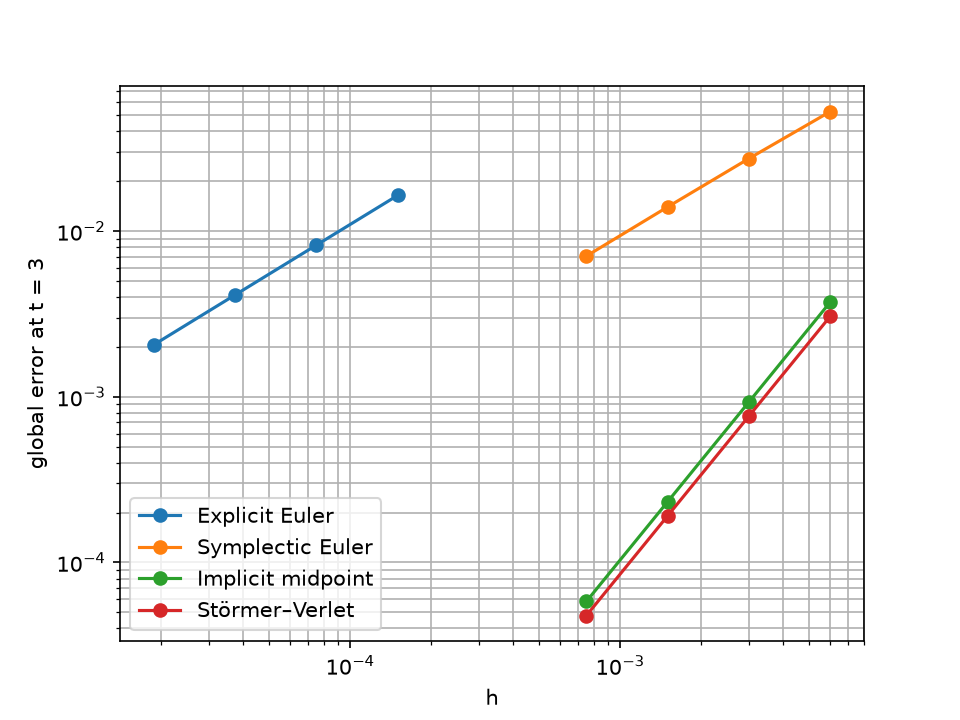
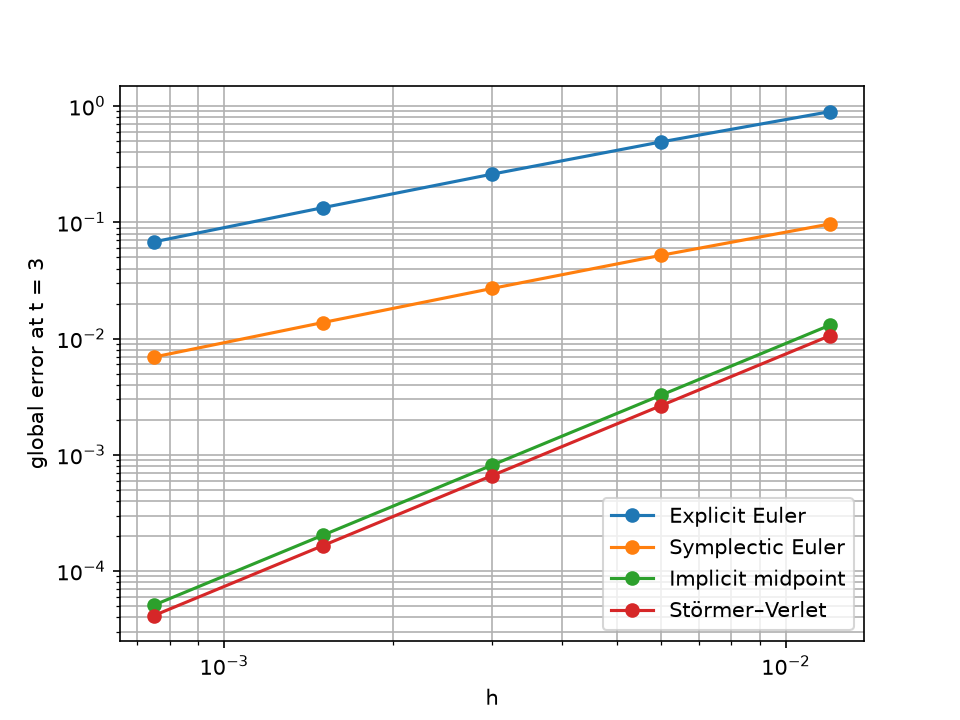
README: update convergence study and cross-validation with MATLAB

diff --git a/convergence.py b/convergence.py
@@ -2,34 +2,64 @@ import os
 
 import numpy as np
 import matplotlib.pyplot as plt
-from kepler import (initial_state, integrate, reference, euler_step, symplectic_euler_step, midpoint_step_fsolve, verlet_step)
+from kepler import (initial_state, integrate, reference, euler_step,
+                    symplectic_euler_step, midpoint_step_fsolve, verlet_step)
 
-# Explicit Euler reaches the asymptotic regime only with very small steps.
+E_ECC, T_END = 0.7, 3.0
+NS = np.array([250, 500, 1000, 2000, 4000])   # same n as the MATLAB study
+
 METHODS = {
-    "Explicit Euler": (euler_step, [20000, 40000, 80000, 160000]),
-    "Symplectic Euler": (symplectic_euler_step, [500, 1000, 2000, 4000]),
-    "Implicit midpoint": (midpoint_step_fsolve, [500, 1000, 2000, 4000]),
-    "Störmer–Verlet": (verlet_step, [500, 1000, 2000, 4000])
+    "Explicit Euler": euler_step,
+    "Symplectic Euler": symplectic_euler_step,
+    "Implicit midpoint": midpoint_step_fsolve,
+    "Störmer–Verlet": verlet_step,
 }
 
-def global_errors(step, y0, t_end, ns):
-    """Global error at t_end for each number of steps in ns, against the reference solution."""
-    y_ref= reference(y0, t_end)
-    return np.array([np.linalg.norm(integrate(step, y0, t_end, n)[-1] - y_ref) for n in ns])
+
+def kepler_position(e, t, tol=1e-14, maxit=50):
+    """Exact position (a = 1, mu = 1, pericentre at t = 0) from Kepler's equation
+    E - e sin E = M, M = t, solved with Newton."""
+    E = t
+    for _ in range(maxit):
+        dE = (E - e * np.sin(E) - t) / (1 - e * np.cos(E))
+        E -= dE
+        if abs(dE) < tol:
+            break
+    return np.array([np.cos(E) - e, np.sqrt(1 - e**2) * np.sin(E)])
+
+
+def global_errors(step, y0, t_end, ns, q_exact):
+    """Position error at t_end for each n in ns, against the exact solution."""
+    return np.array([np.linalg.norm(integrate(step, y0, t_end, n)[-1][:2] - q_exact)
+                     for n in ns])
+
 
 def observed_order(hs, errs):
     """Slope of the line log(err) = p log(h) + c."""
     return np.polyfit(np.log(hs), np.log(errs), 1)[0]
 
-if __name__== "__main__":
-    y0, t_end =initial_state(0.7), 3.0
+
+if __name__ == "__main__":
+    y0 = initial_state(E_ECC)
+    q_exact = kepler_position(E_ECC, T_END)
+
+    # independent check: the DOP853 reference must agree with the exact solution
+    print(f"|DOP853 - exact| at t = {T_END}: "
+          f"{np.linalg.norm(reference(y0, T_END)[:2] - q_exact):.2e}")
+
+    hs = T_END / NS
+    table = {}
     plt.figure()
-    for name, (step, ns) in METHODS.items():
-        ns=np.array(ns)
-        hs=t_end/ns
-        errs=global_errors(step, y0, t_end, ns)
+    for name, step in METHODS.items():
+        errs = global_errors(step, y0, T_END, NS, q_exact)
+        table[name] = errs
         print(f"{name}: observed order = {observed_order(hs, errs):.2f}")
         plt.loglog(hs, errs, "o-", label=name)
+
+    print("\nn      " + "  ".join(f"{n:>10d}" for n in NS))
+    for name, errs in table.items():
+        print(f"{name[:16]:<16}" + "  ".join(f"{e:10.3e}" for e in errs))
+
     plt.xlabel("h")
     plt.ylabel("global error at t = 3")
     plt.legend()

diff --git a/README.md b/README.md
@@ -50,18 +50,26 @@ pytest -v
 
 ### Convergence
 
-Observed convergence orders (global error at t = 3):
+Global position error at t = 3 for the Kepler problem (e = 0.7, pericentre start),
+measured against the exact solution of Kepler's equation. All four methods use the
+same step counts (n = 250 … 4000).
 
 | Method | Observed order |
 |---|---|
-| Explicit Euler | 1.00 |
-| Symplectic Euler | 0.97 |
+| Explicit Euler | 0.93 |
+| Symplectic Euler | 0.95 |
 | Implicit midpoint | 2.00 |
 | Störmer–Verlet | 2.00 |
 
 ![Convergence](figures/convergence.png)
 
-Note: explicit Euler uses much smaller steps (20,000 to 160,000 steps) than the other methods, because with few steps it is not in the asymptotic regime and the observed order is underestimated.
+The final time is t = 3 rather than one full period: at t = 2π the symmetry of the
+orbit hides the first-order error of symplectic Euler and the fitted order would
+read about 2.
+
+**Cross-validation.** The errors agree with the MATLAB implementation
+([numerical-methods-matlab](https://github.com/luigivarriale9/numerical-methods-matlab))
+to the four significant digits compared (20 values: 4 methods × 5 step counts).
 
 ### Multistep methods
 
